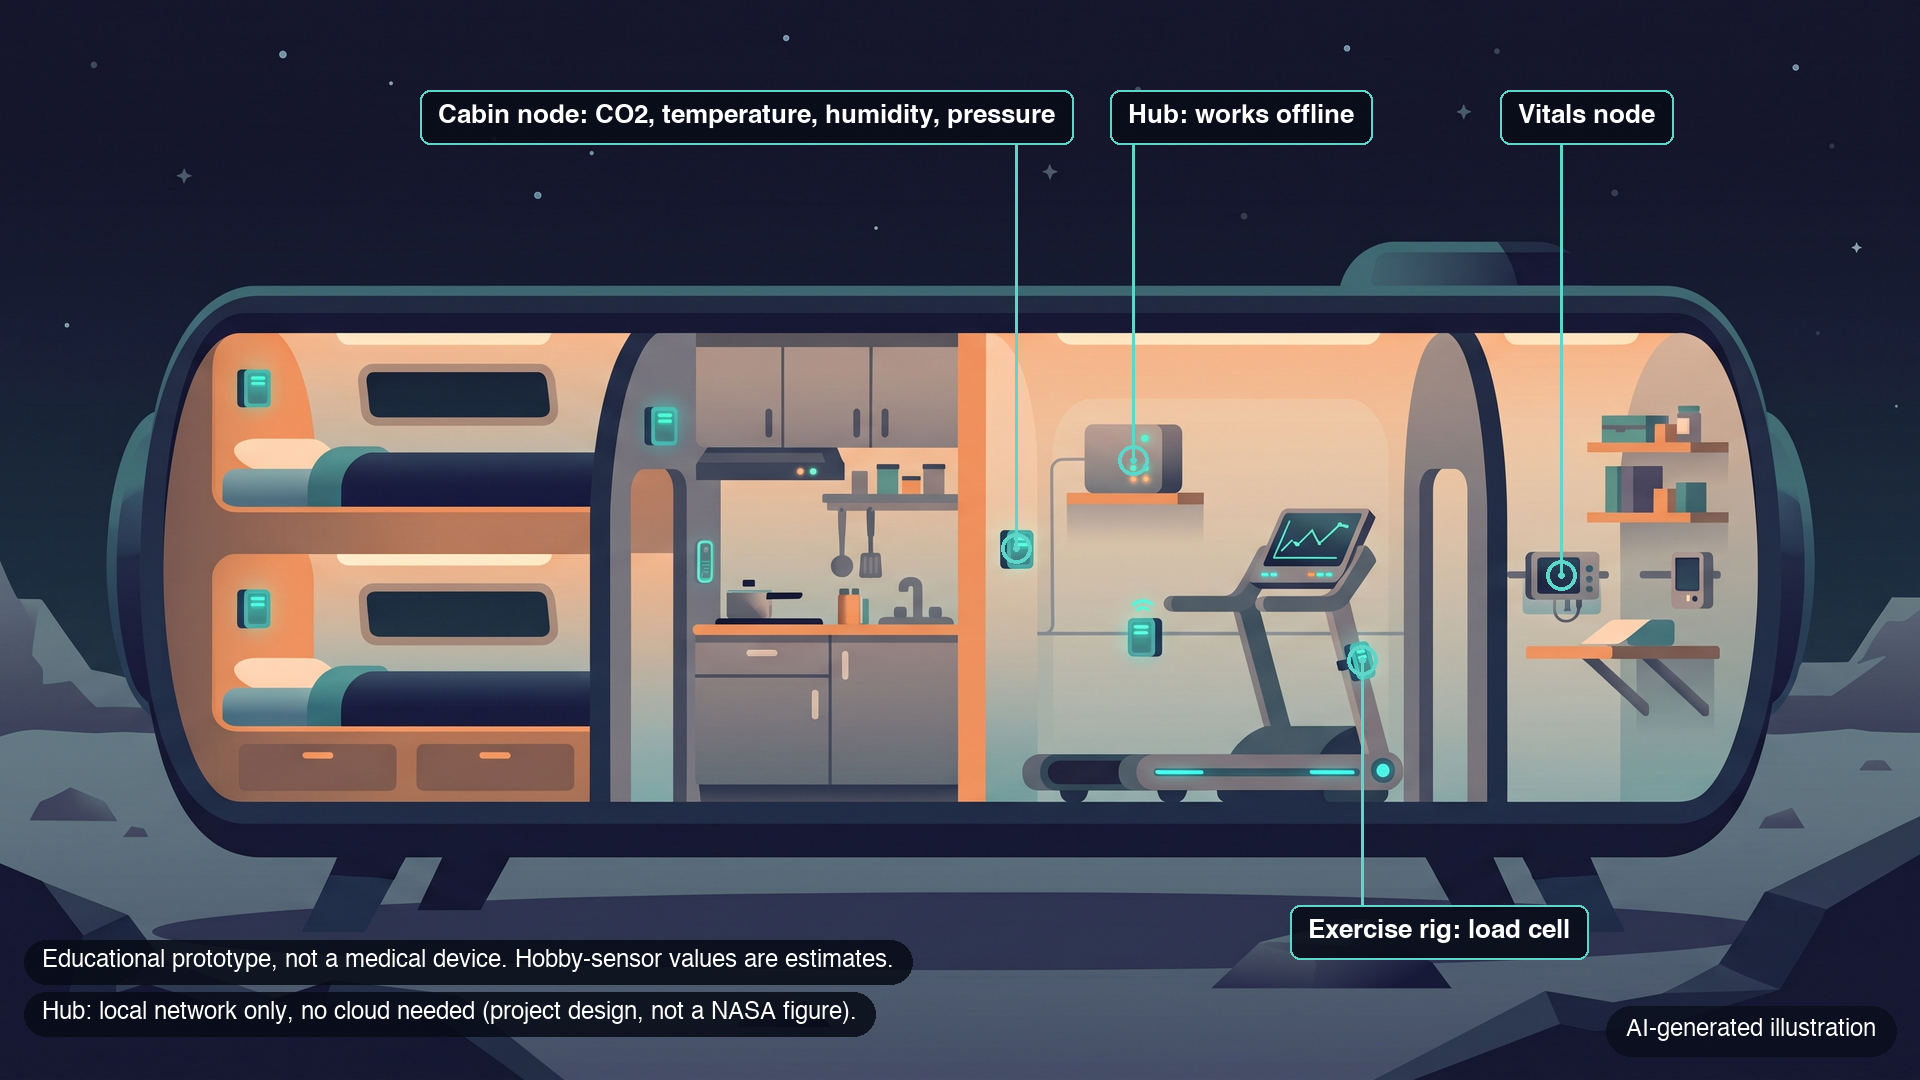
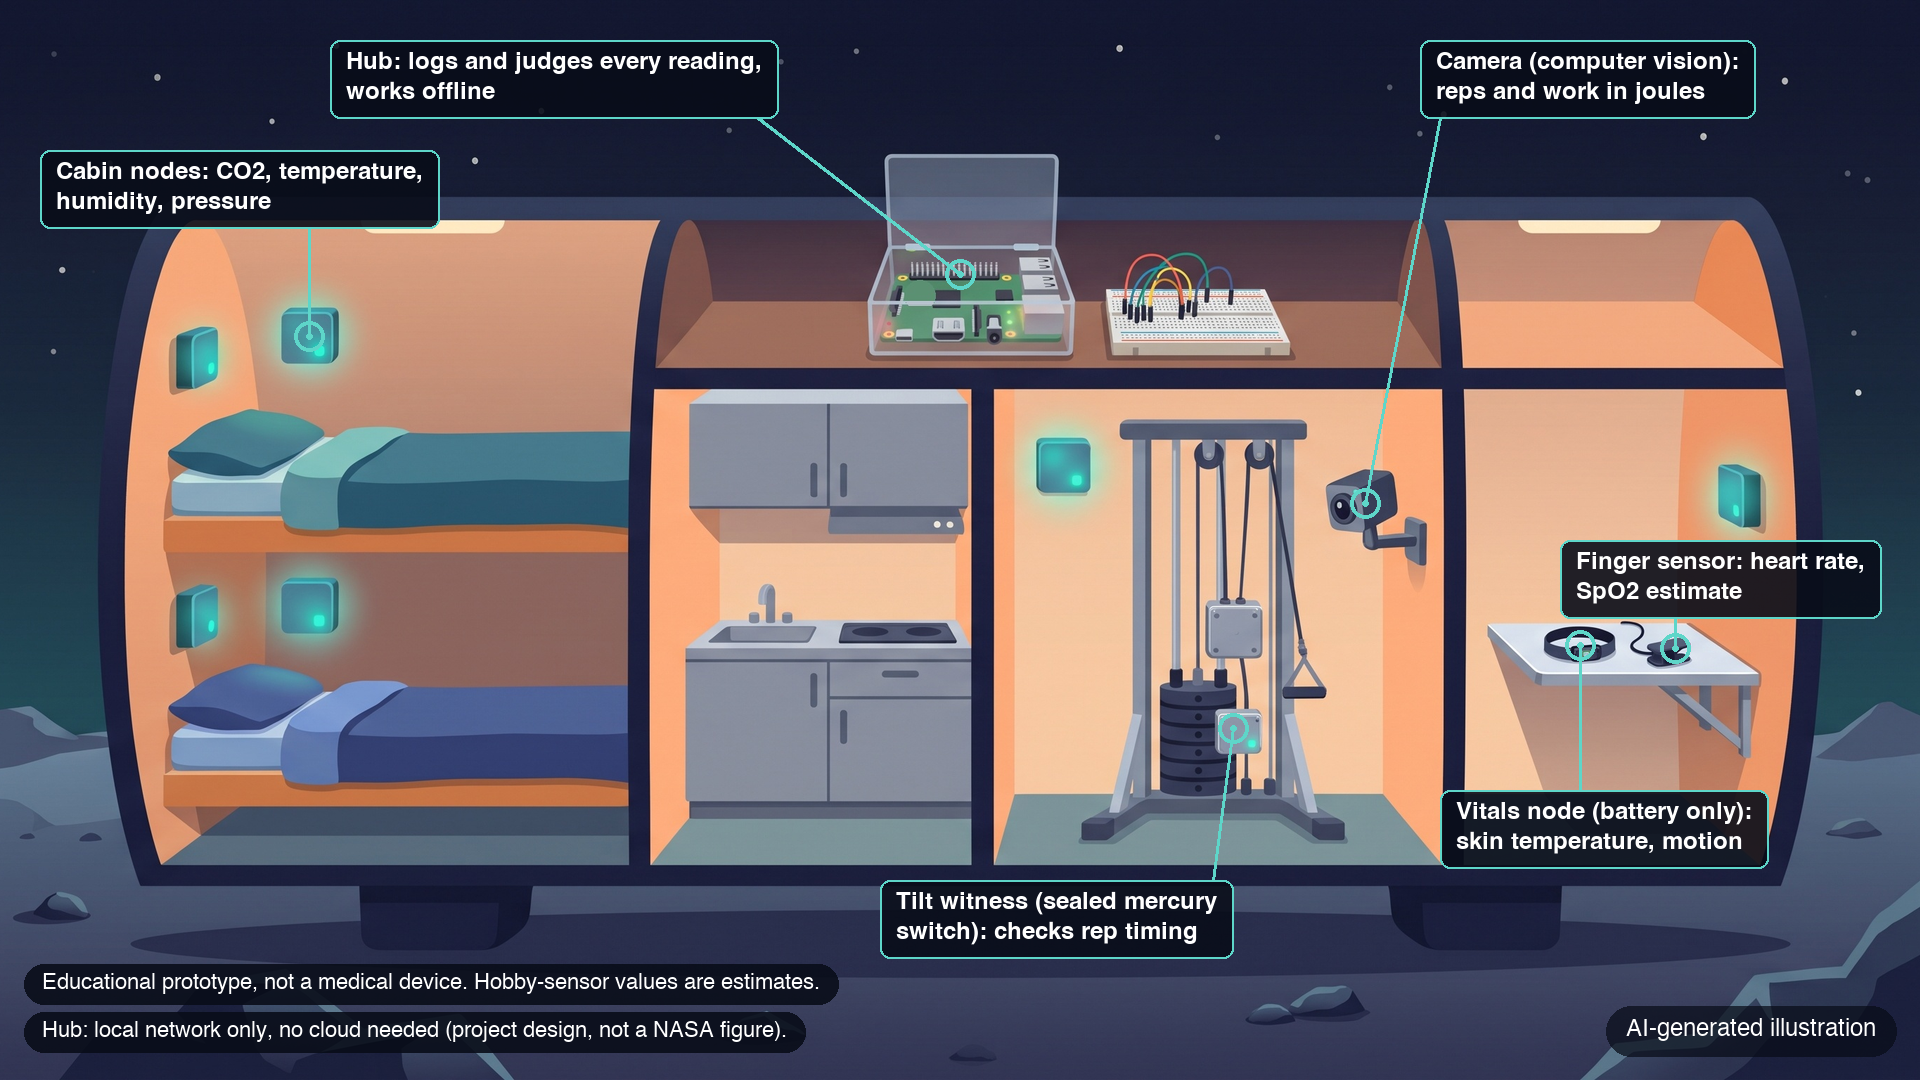
docs(submission): habitat illustration shows the camera, wearable and tilt witness
The page image docs/img/habitat-illustration.png is regenerated at the
operator's request. It now shows the cabin nodes, the camera that
measures exercise work, the sealed tilt witness on the weights, the
battery-powered vitals node and its finger sensor, and the offline hub.
The caption, alt text and AI disclosure line are updated to match.

diff --git a/docs/drafts/s13-project-page.md b/docs/drafts/s13-project-page.md
@@ -71,9 +71,9 @@ Three images: one real screenshot and two AI-generated illustrations, each marke
      - Values shown: heart rate 61 bpm, skin temperature 33.5 °C, cabin CO2 1.01 mmHg (1,324 ppm), temperature 22.2 °C, humidity 45 %, pressure 1013.0 hPa and light 400 lx.
      - Blood pressure, glucose, body temperature, sleep, mood and SpO2 read "No reading yet".
 2. `docs/img/habitat-illustration.png`
-   - Caption: One habitat, three kinds of sensor node and one offline hub that compares readings with NASA-STD-3001 where a rule exists. AI-generated illustration; hobby-sensor values are estimates.
-   - Alt text: Flat cartoon cutaway of a cylindrical surface habitat with bunks, a galley, a treadmill and a medical corner, with glowing sensor nodes and no people.
-     - Callouts read "Cabin node: CO2, temperature, humidity, pressure", "Hub: works offline", "Vitals node" and "Exercise rig: load cell".
+   - Caption: One habitat, its sensors and one offline hub: cabin nodes, a camera that measures exercise work, a sealed tilt witness and a battery-powered vitals node. AI-generated illustration; hobby-sensor values are estimates.
+   - Alt text: Flat cartoon cutaway of a cylindrical surface habitat with bunks, a galley, an exercise room and a medical corner, with glowing sensor nodes and no people.
+     - Callouts read "Hub: logs and judges every reading, works offline", "Cabin nodes: CO2, temperature, humidity, pressure", "Camera (computer vision): reps and work in joules", "Tilt witness (sealed mercury switch): checks rep timing", "Vitals node (battery only): skin temperature, motion" and "Finger sensor: heart rate, SpO2 estimate".
      - A label reads "AI-generated illustration".
 3. `docs/img/same-sensors-three-places.png`
    - Caption: Same sensors, three places: the cabin limits stay the same while gravity, distance to Earth and radiation change. AI-generated concept art; the console has no ISS, Moon or Mars mode.

diff --git a/docs/AI_DISCLOSURE.md b/docs/AI_DISCLOSURE.md
@@ -46,8 +46,8 @@ Two presentation images are AI-generated illustrations.
 The images:
 
 - `docs/img/habitat-illustration.png`
-  - Generated: the art, a flat cartoon cutaway of a surface habitat module with bunks, galley, exercise and medical corners, glowing sensor nodes and a hub box, with no people and no text.
-  - Added by the team: the callouts, footnotes and watermark.
+  - Generated: the art, a flat cartoon cutaway of a surface habitat module with bunks, a galley, an exercise room (with a rig, a camera and a sensor box on the weights) and a medical corner (with a wristband and a finger clip), wall sensor nodes and a hub board on a shelf. It has no people and no text.
+  - Added by the team: the callouts, footnotes and watermark. The team also painted over a logo-like mark that the model drew on the hub board.
 - `docs/img/same-sensors-three-places.png`
   - Generated: three pieces of art (an invented space station in orbit, a Moon base and a Mars base, each a flat cartoon with no people and no text).
   - Added by the team: the composite layout, the comparison text and numbers from cited NASA sources, and the watermark.
